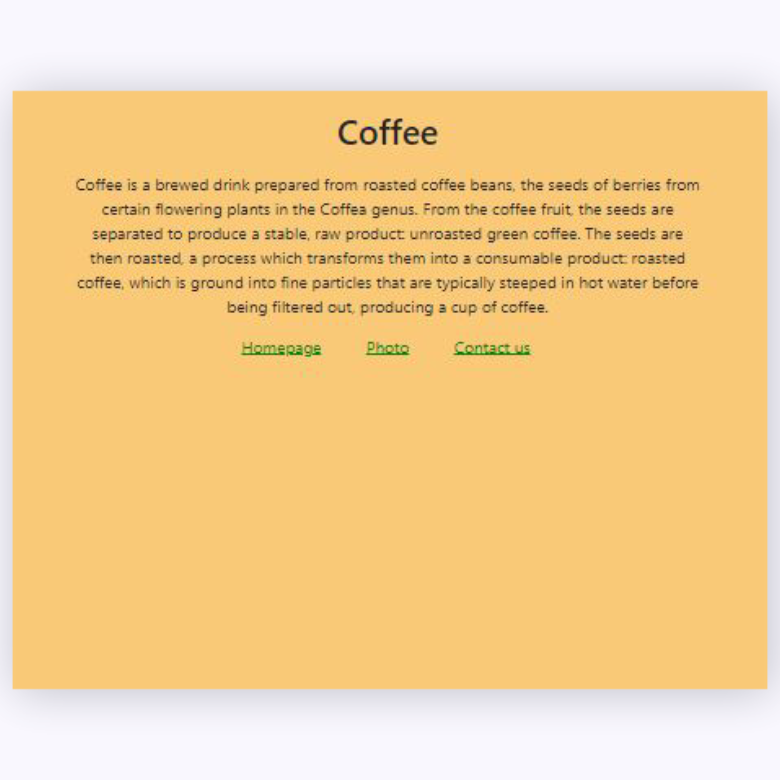
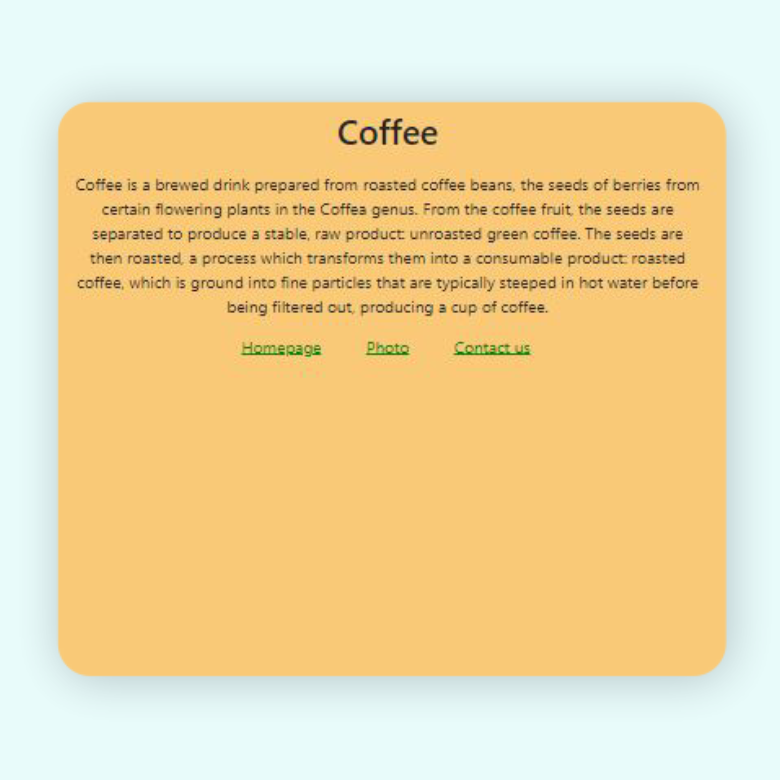
add nav bar

Changed region(s): [[0.0, 0.0923, 1.0, 0.8923]]

diff --git a/work.html b/work.html
@@ -26,6 +26,41 @@
     <title>Document</title>
   </head>
   <body>
+    <nav class="navbar navbar-expand-lg bg-white">
+      <div class="container-fluid">
+        <a class="navbar-brand" href="/">
+          <img src="/img/logo.png" class="logo-nav" alt="image-logo" />
+        </a>
+        <button
+          class="navbar-toggler"
+          type="button"
+          data-bs-toggle="collapse"
+          data-bs-target="#navbarNav"
+          aria-controls="navbarNav"
+          aria-expanded="false"
+          aria-label="Toggle navigation"
+        >
+          <span class="navbar-toggler-icon"></span>
+        </button>
+        <div class="collapse navbar-collapse" id="navbarNav">
+          <ul class="navbar-nav">
+            <li class="nav-item">
+              <a class="nav-link" aria-current="page" href="/">Home</a>
+            </li>
+            <li class="nav-item">
+              <a class="nav-link" href="/about.html">About</a>
+            </li>
+            <li class="nav-item">
+              <a class="nav-link active" href="/work.html">Work</a>
+            </li>
+            <li class="nav-item">
+              <a class="nav-link" href="/contact.html">Contact</a>
+            </li>
+          </ul>
+        </div>
+      </div>
+    </nav>
+
     <div class="content-container container">
       <div class="content">
         <h1 class="mb-5 text-center">
@@ -33,14 +68,18 @@
         </h1>
         <div class="row">
           <div class="col-md-6 mb-4">
-            <img src="/img/travel app.png" class="img-fluid" alt="travel app" />
+            <img
+              src="/img/travel app.png"
+              class="img-fluid rounded-2"
+              alt="travel app"
+            />
             <h3 class="text-center">Travel Project</h3>
             <p class="text-center text-muted">Built with HTML and CSS</p>
           </div>
           <div class="col-md-6 mb-4">
             <img
               src="/img/weather app.png"
-              class="img-fluid"
+              class="img-fluid rounded-2"
               alt="travel app"
             />
             <h3 class="text-center">Weather App</h3>
@@ -49,7 +88,11 @@
             </p>
           </div>
           <div class="col-md-6 mb-4">
-            <img src="/img/coffee app.png" class="img-fluid" alt="travel app" />
+            <img
+              src="/img/coffee app.png"
+              class="img-fluid rounded-2"
+              alt="travel app"
+            />
             <h3 class="text-center">Coffee App</h3>
             <p class="text-center text-muted">Built with HTML and CSS</p>
           </div>

diff --git a/index.html b/index.html
@@ -26,6 +26,41 @@
     <title>Document</title>
   </head>
   <body>
+    <nav class="navbar navbar-expand-lg bg-white">
+      <div class="container-fluid">
+        <a class="navbar-brand" href="/">
+          <img src="/img/logo.png" class="logo-nav" alt="image-logo" />
+        </a>
+        <button
+          class="navbar-toggler"
+          type="button"
+          data-bs-toggle="collapse"
+          data-bs-target="#navbarNav"
+          aria-controls="navbarNav"
+          aria-expanded="false"
+          aria-label="Toggle navigation"
+        >
+          <span class="navbar-toggler-icon"></span>
+        </button>
+        <div class="collapse navbar-collapse" id="navbarNav">
+          <ul class="navbar-nav">
+            <li class="nav-item">
+              <a class="nav-link active" aria-current="page" href="/">Home</a>
+            </li>
+            <li class="nav-item">
+              <a class="nav-link" href="/about.html">About</a>
+            </li>
+            <li class="nav-item">
+              <a class="nav-link" href="/work.html">Work</a>
+            </li>
+            <li class="nav-item">
+              <a class="nav-link" href="/contact.html">Contact</a>
+            </li>
+          </ul>
+        </div>
+      </div>
+    </nav>
+
     <div class="hero">
       <p>Hello, I am</p>
       <h1>Ekateryna Myhalchenko</h1>
@@ -42,7 +77,7 @@
           <img
             src="/img/travel app.png"
             alt="travel-app-image"
-            class="img-fluid"
+            class="img-fluid rounded-2"
           />
         </div>
         <div class="col">
@@ -70,8 +105,8 @@
         <div class="col d-none d-lg-block">
           <img
             src="/img/weather app.png"
-            alt="travel-app-image"
-            class="img-fluid"
+            alt="weather-app-image"
+            class="img-fluid rounded-2"
           />
         </div>
       </div>
@@ -79,8 +114,8 @@
         <div class="col d-none d-lg-block">
           <img
             src="/img/coffee app.png"
-            alt="travel-app-image"
-            class="img-fluid"
+            alt="coffee-app-image"
+            class="img-fluid rounded-2"
           />
         </div>
         <div class="col">

diff --git a/contact.html b/contact.html
@@ -26,6 +26,41 @@
     <title>Document</title>
   </head>
   <body>
+    <nav class="navbar navbar-expand-lg bg-white">
+      <div class="container-fluid">
+        <a class="navbar-brand" href="/">
+          <img src="/img/logo.png" class="logo-nav" alt="image-logo" />
+        </a>
+        <button
+          class="navbar-toggler"
+          type="button"
+          data-bs-toggle="collapse"
+          data-bs-target="#navbarNav"
+          aria-controls="navbarNav"
+          aria-expanded="false"
+          aria-label="Toggle navigation"
+        >
+          <span class="navbar-toggler-icon"></span>
+        </button>
+        <div class="collapse navbar-collapse" id="navbarNav">
+          <ul class="navbar-nav">
+            <li class="nav-item">
+              <a class="nav-link" aria-current="page" href="/">Home</a>
+            </li>
+            <li class="nav-item">
+              <a class="nav-link" href="/about.html">About</a>
+            </li>
+            <li class="nav-item">
+              <a class="nav-link" href="/work.html">Work</a>
+            </li>
+            <li class="nav-item">
+              <a class="nav-link active" href="/contact.html">Contact</a>
+            </li>
+          </ul>
+        </div>
+      </div>
+    </nav>
+
     <div class="content-container container">
       <div class="content contact-info">
         <h1 class="mb-5 text-center">Let's get in touch!</h1>
@@ -36,7 +71,7 @@
         <h3>LinkedIn</h3>
         <p>
           <a
-            href="https://www.linkedin.com/in/%D0%B5%D0%BA%D0%B0%D1%82%D0%B5%D1%80%D0%B8%D0%BD%D0%B0-%D0%BC%D0%B8%D1%85%D0%B0%D0%BB%D1%8C%D1%87%D0%B5%D0%BD%D0%BA%D0%BE-28495b1a5/"
+            href="https://www.linkedin.com/in/ekateryna-myhalchenko-28495b1a5/"
             target="_blank"
             >LinkedIn</a
           >

diff --git a/about.html b/about.html
@@ -26,6 +26,41 @@
     <title>Document</title>
   </head>
   <body>
+    <nav class="navbar navbar-expand-lg bg-white">
+      <div class="container-fluid">
+        <a class="navbar-brand" href="/">
+          <img src="/img/logo.png" class="logo-nav" alt="image-logo" />
+        </a>
+        <button
+          class="navbar-toggler"
+          type="button"
+          data-bs-toggle="collapse"
+          data-bs-target="#navbarNav"
+          aria-controls="navbarNav"
+          aria-expanded="false"
+          aria-label="Toggle navigation"
+        >
+          <span class="navbar-toggler-icon"></span>
+        </button>
+        <div class="collapse navbar-collapse" id="navbarNav">
+          <ul class="navbar-nav">
+            <li class="nav-item">
+              <a class="nav-link" aria-current="page" href="/">Home</a>
+            </li>
+            <li class="nav-item">
+              <a class="nav-link active" href="/about.html">About</a>
+            </li>
+            <li class="nav-item">
+              <a class="nav-link" href="/work.html">Work</a>
+            </li>
+            <li class="nav-item">
+              <a class="nav-link" href="/contact.html">Contact</a>
+            </li>
+          </ul>
+        </div>
+      </div>
+    </nav>
+
     <div class="content-container container">
       <div class="row">
         <div class="col-lg-6">

diff --git a/style/portfolio.css b/style/portfolio.css
@@ -1,6 +1,7 @@
 :root {
-  --branding-color: #6c63ff;
-  --secondary-color: #f9f7fe;
+  --branding-color: #116964;
+  --secondary-color: #e8fbfa;
+  --third-color: #3bd1c4;
   --heading-font-family: "Playfair Display", serif;
   --default-font-family: "Poppins", sans-serif;
 }
@@ -46,7 +47,7 @@ p {
   color: #272142;
 }
 .content-container {
-  padding: 160px 20px;
+  padding: 80px 20px;
 }
 .content-container h1 {
   font-size: 58px;
@@ -93,6 +94,16 @@ p {
 }
 .project-description {
   padding: 90px 60px;
+}
+
+.logo-nav {
+  max-width: 200px;
+}
+.nav-item {
+  padding: 0 10px;
+}
+.navbar-nav .nav-link.active {
+  color: var(--branding-color);
 }
 
 @media (max-width: 1280px) {
